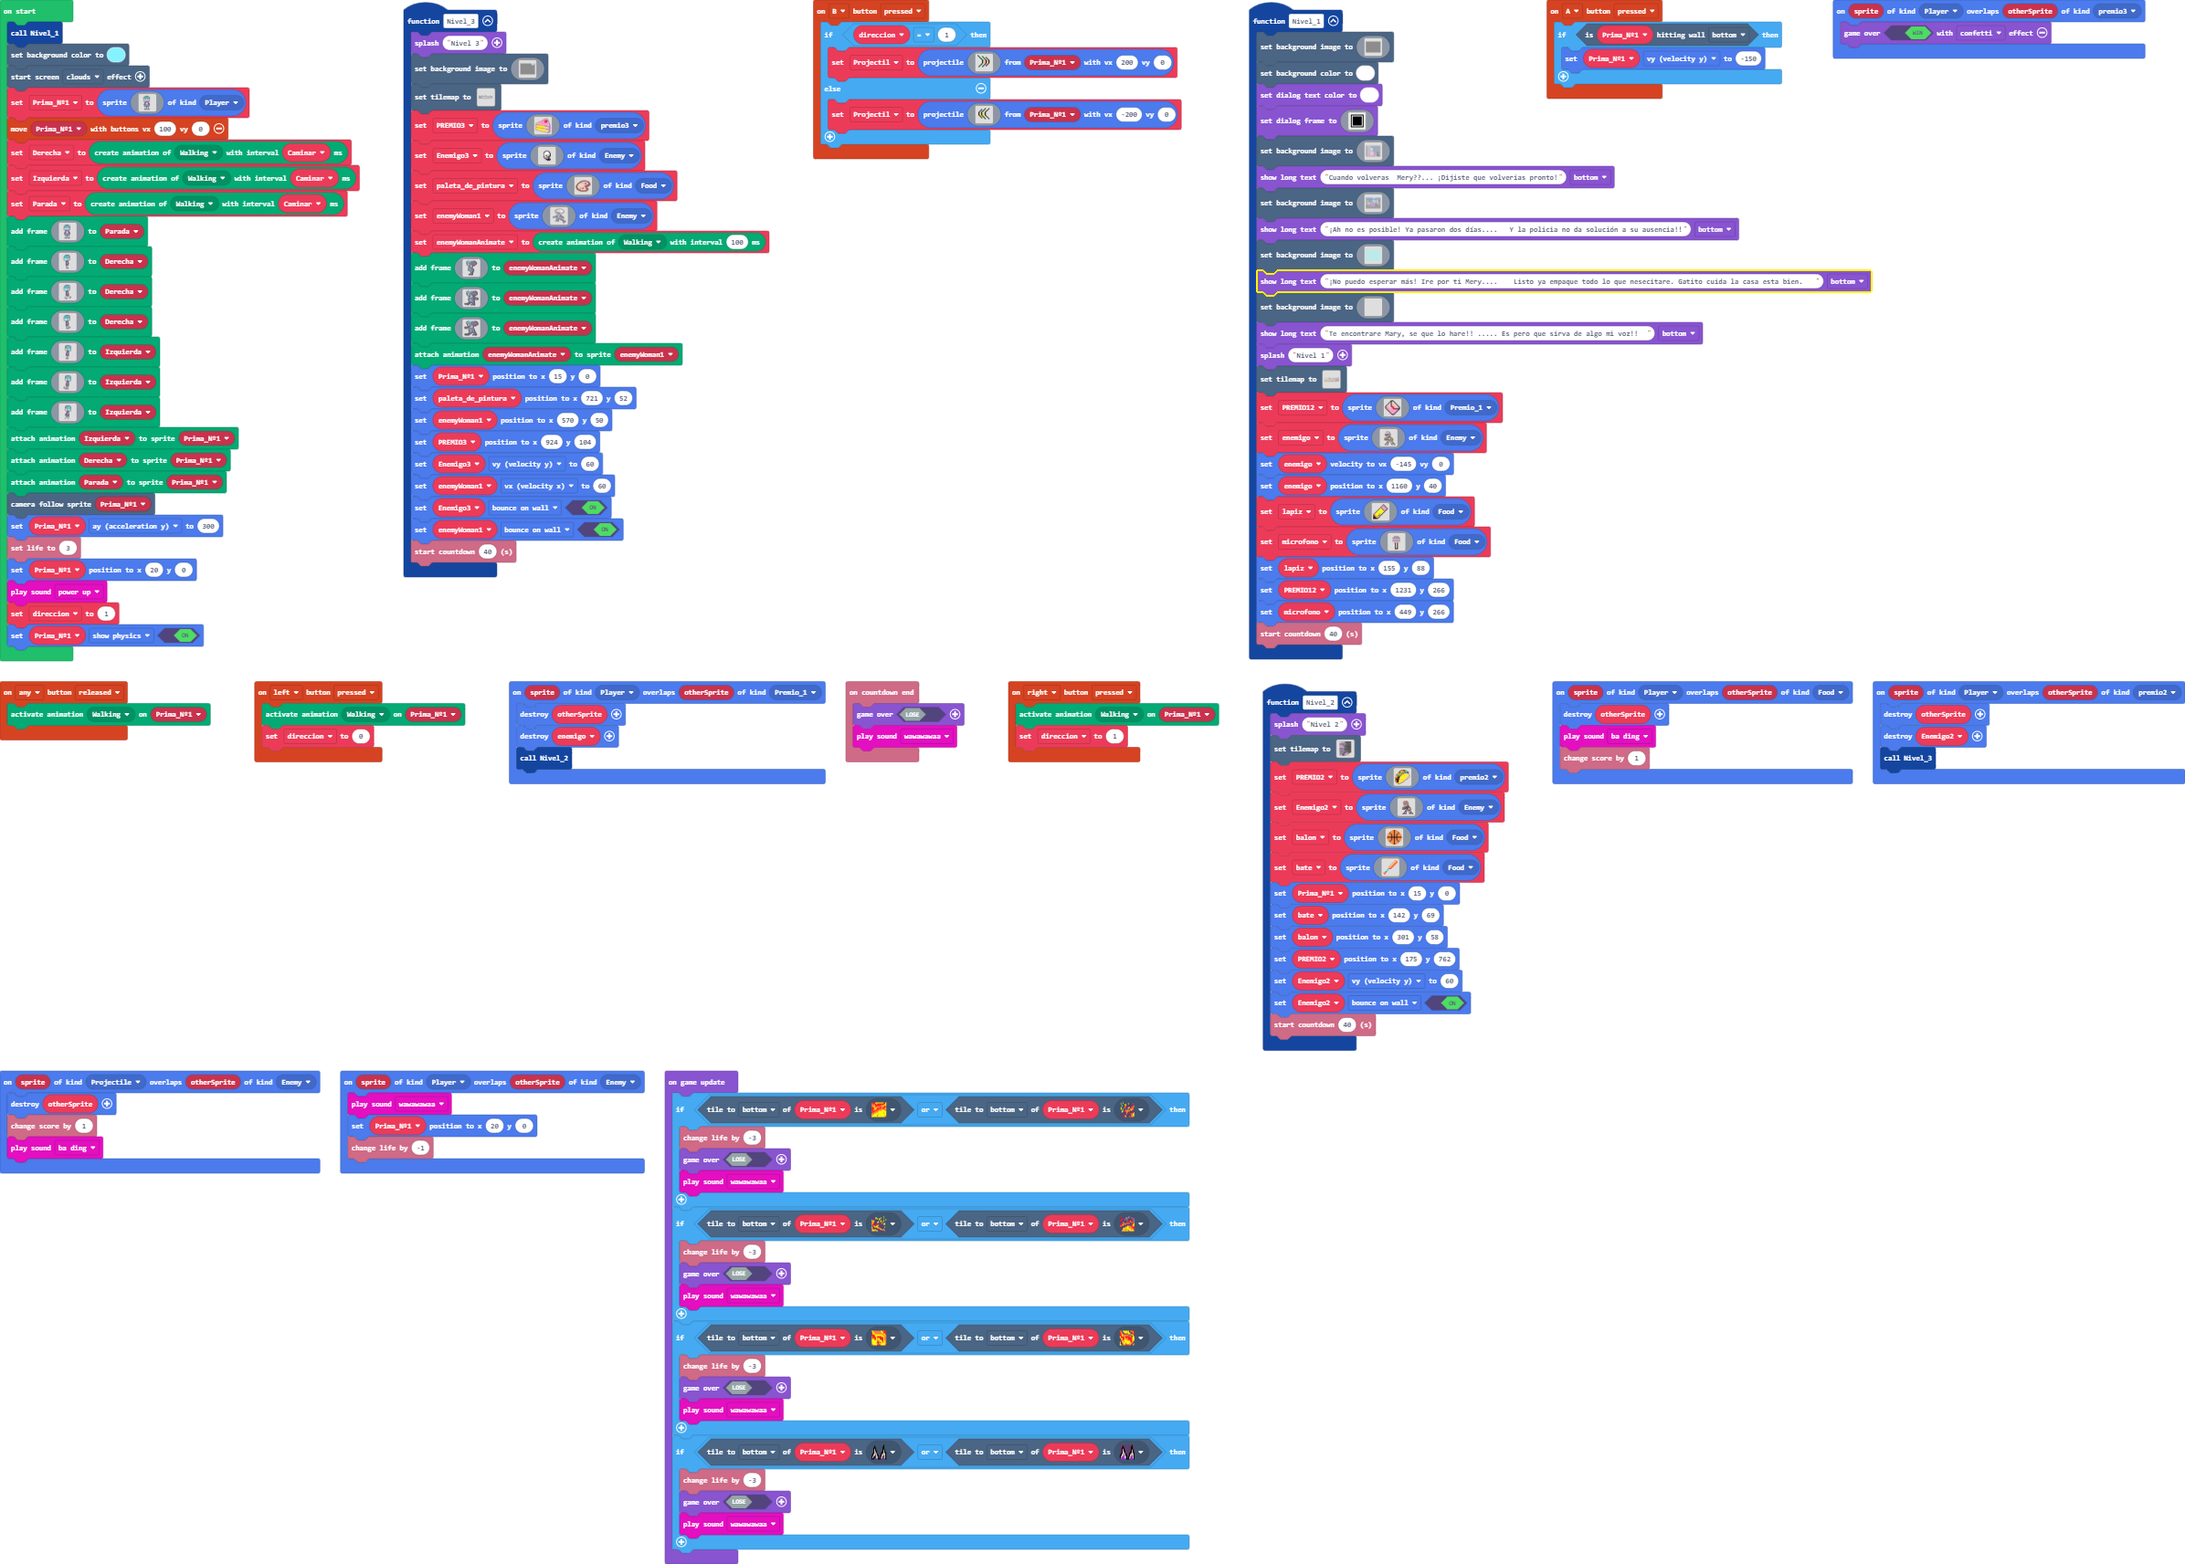
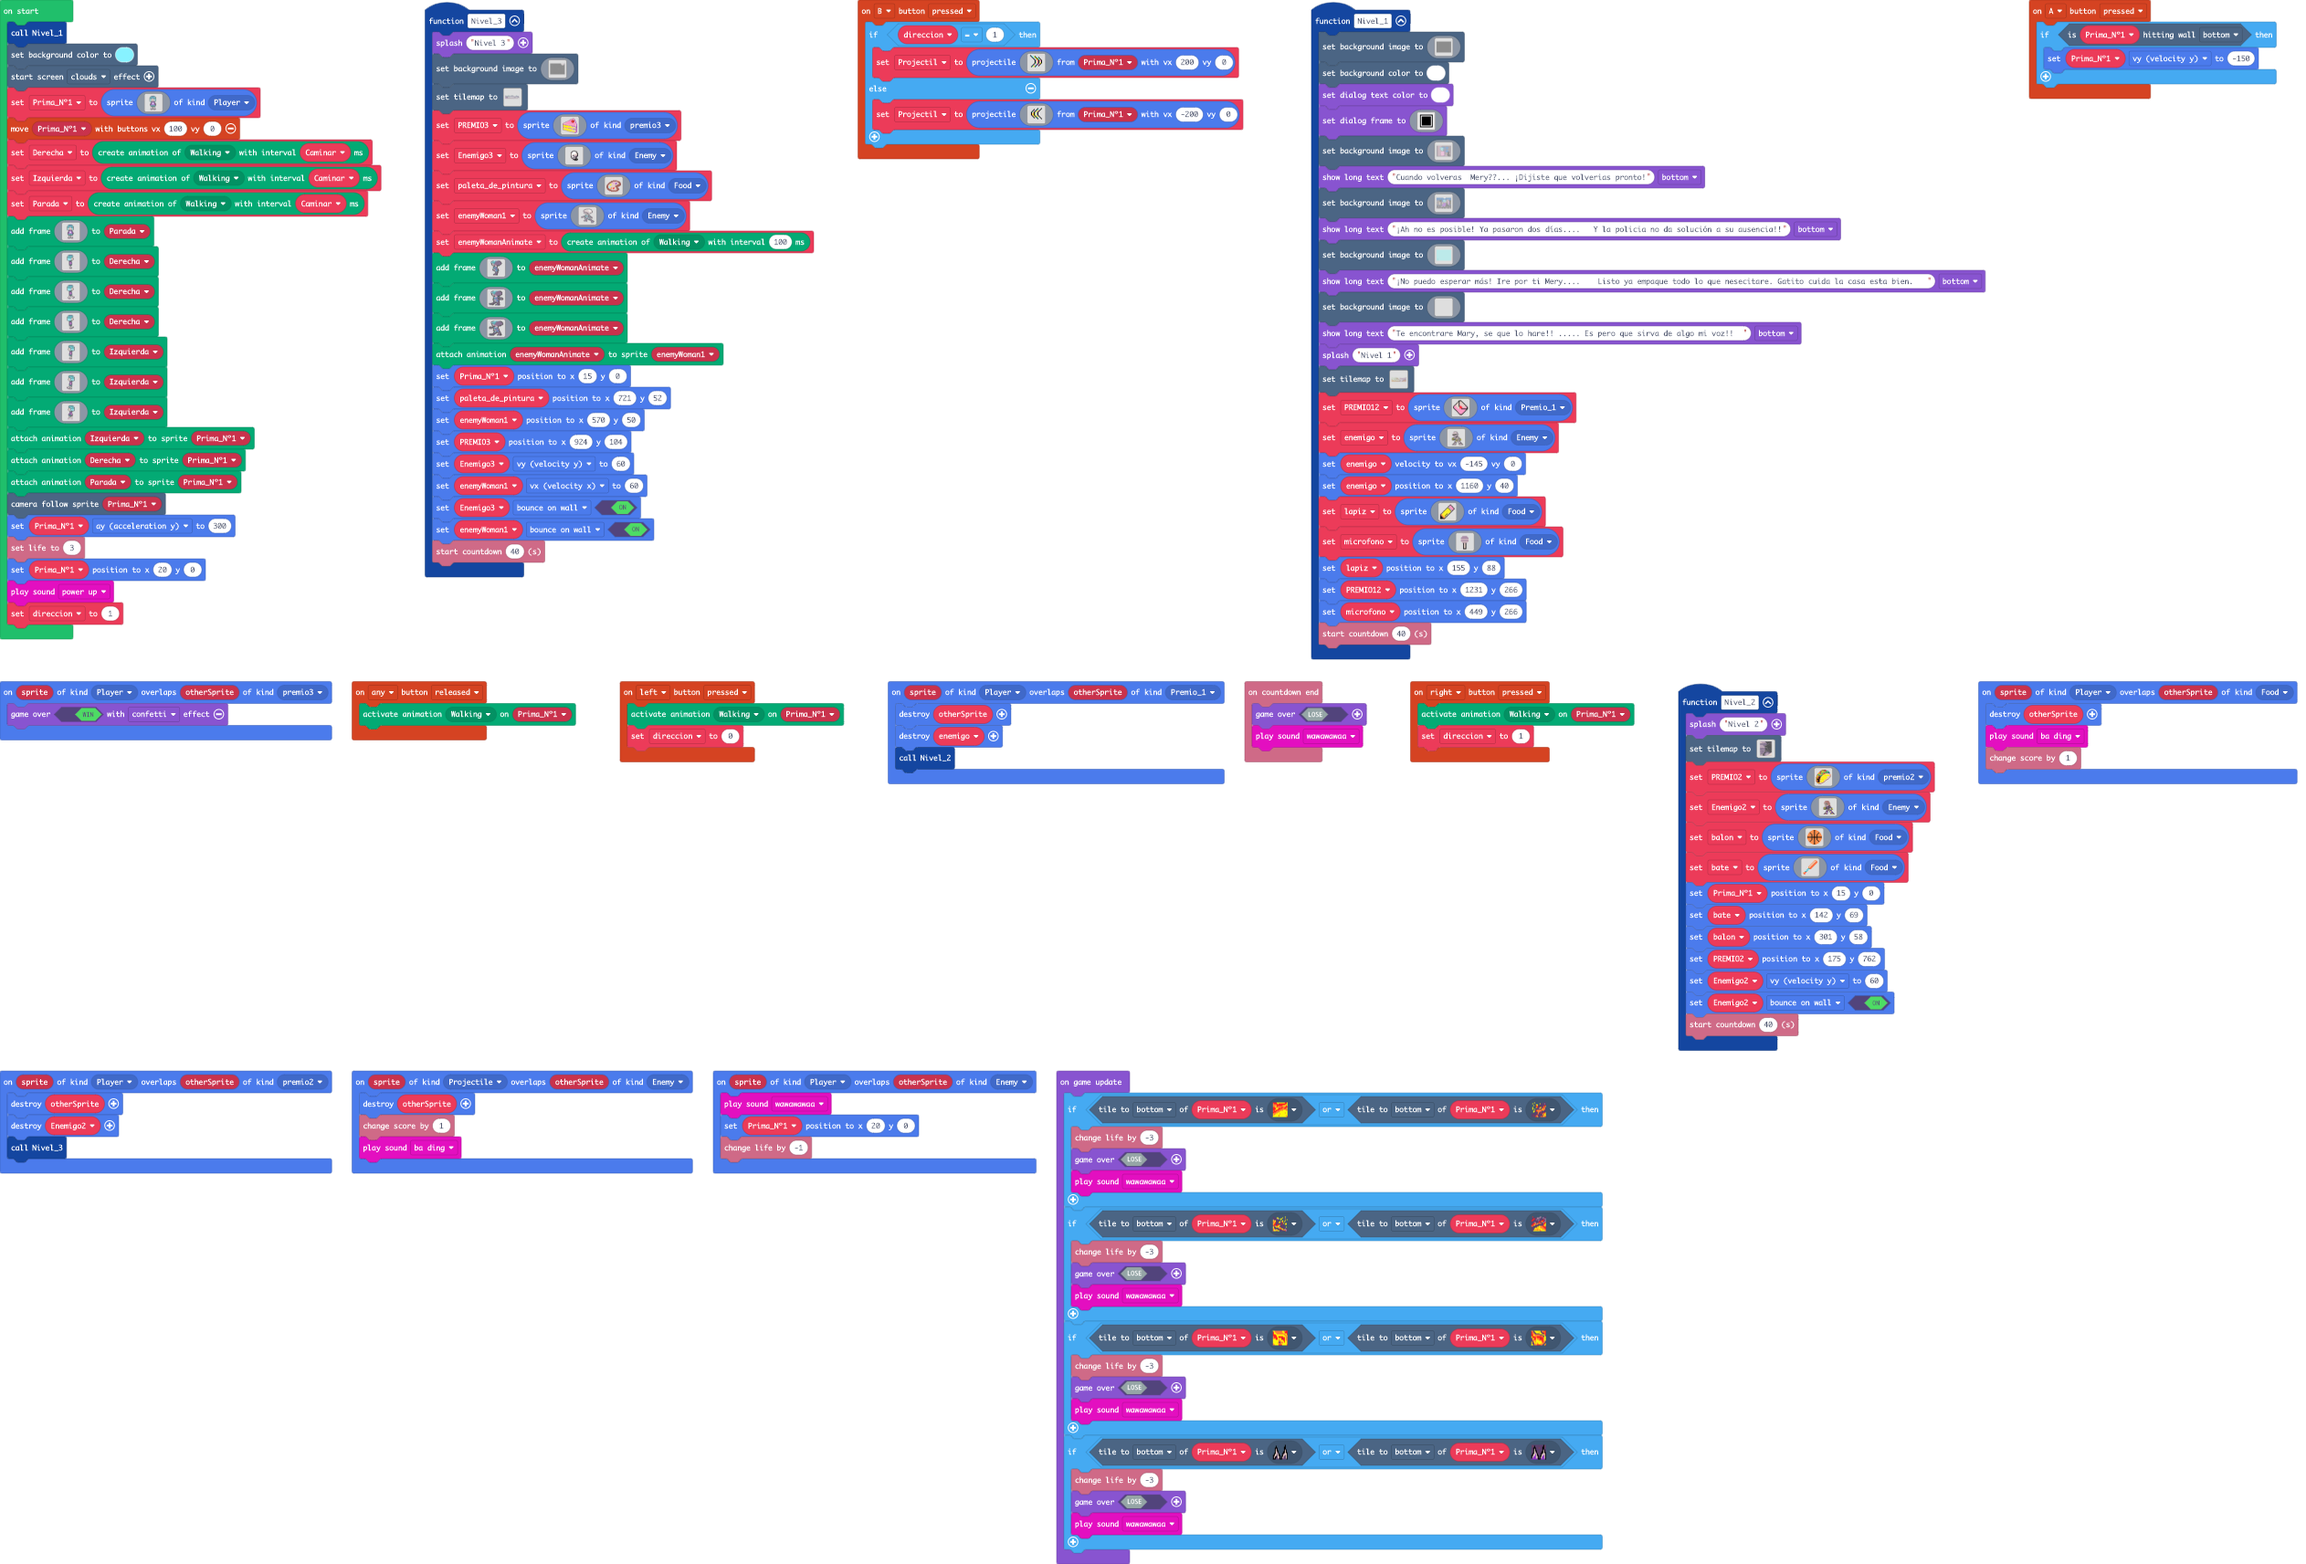
Update main.blocks, main.ts

diff --git a/main.ts b/main.ts
@@ -1946,7 +1946,6 @@ info.setLife(3)
 Prima_Nº1.setPosition(20, 0)
 music.powerUp.play()
 direccion = 1
-Prima_Nº1.setFlag(SpriteFlag.ShowPhysics, true)
 game.onUpdate(function () {
     if (Prima_Nº1.tileKindAt(TileDirection.Bottom, myTiles.tile120) || Prima_Nº1.tileKindAt(TileDirection.Bottom, myTiles.tile121)) {
         info.changeLifeBy(-3)
